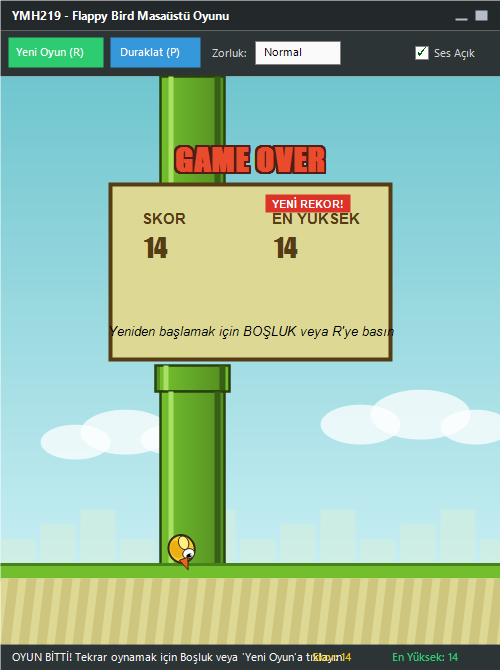
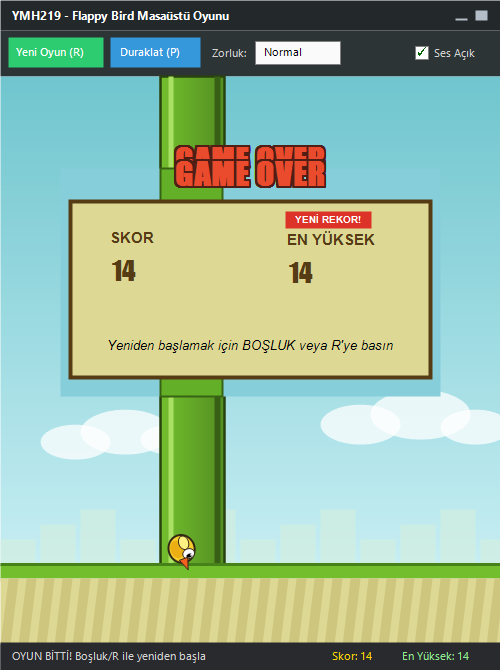
düzeltme: Game Over kartı genişliği, yazı hizalaması ve gameover ekran görüntüsü düzeltildi

Changed region(s): [[0.12, 0.2388, 0.9, 0.597], [0.0, 0.9552, 1.0, 1.0]]

diff --git a/src/FlappyBird/Engine/GameEngine.cs b/src/FlappyBird/Engine/GameEngine.cs
@@ -307,15 +307,16 @@ public class GameEngine : IDisposable
 
     private void DrawOverlayMessage(Graphics g, string title, string subtitle)
     {
-        using var boxBrush = new SolidBrush(Color.FromArgb(180, 0, 0, 0));
-        using var titleFont = new Font("Arial", 16, FontStyle.Bold);
-        using var subFont = new Font("Arial", 11, FontStyle.Regular);
+        using var boxBrush = new SolidBrush(Color.FromArgb(190, 0, 0, 0));
+        using var titleFont = new Font("Arial", 14, FontStyle.Bold);
+        using var subFont = new Font("Arial", 10.5f, FontStyle.Regular);
+        using var sf = new StringFormat { Alignment = StringAlignment.Center, LineAlignment = StringAlignment.Center };
 
         var titleSize = g.MeasureString(title, titleFont);
         var subSize = g.MeasureString(subtitle, subFont);
 
-        float boxW = Math.Max(titleSize.Width, subSize.Width) + 40f;
-        float boxH = titleSize.Height + subSize.Height + 35f;
+        float boxW = Math.Min(CanvasWidth - 36f, Math.Max(titleSize.Width, subSize.Width) + 44f);
+        float boxH = titleSize.Height + subSize.Height + 38f;
         float boxX = (CanvasWidth - boxW) / 2f;
         float boxY = (GroundY - boxH) / 2f;
 
@@ -323,16 +324,20 @@ public class GameEngine : IDisposable
         using var borderPen = new Pen(Color.FromArgb(245, 200, 50), 2f);
         g.DrawRectangle(borderPen, boxX, boxY, boxW, boxH);
 
-        g.DrawString(title, titleFont, Brushes.Gold, (CanvasWidth - titleSize.Width) / 2f, boxY + 12);
-        g.DrawString(subtitle, subFont, Brushes.White, (CanvasWidth - subSize.Width) / 2f, boxY + 18 + titleSize.Height);
+        g.DrawString(title, titleFont, Brushes.Gold, new RectangleF(boxX + 10, boxY + 10, boxW - 20, titleSize.Height + 6), sf);
+        g.DrawString(subtitle, subFont, Brushes.White, new RectangleF(boxX + 10, boxY + 20 + titleSize.Height, boxW - 20, subSize.Height + 6), sf);
     }
 
     private void DrawGameOverCard(Graphics g)
     {
-        float cardW = 280f;
-        float cardH = 175f;
+        using var hintFont = new Font("Arial", 9.5f, FontStyle.Italic);
+        string hint = "Yeniden başlamak için BOŞLUK veya R'ye basın";
+        var hintSize = g.MeasureString(hint, hintFont);
+
+        float cardW = Math.Min(CanvasWidth - 36f, Math.Max(340f, hintSize.Width + 40f));
+        float cardH = 180f;
         float cardX = (CanvasWidth - cardW) / 2f;
-        float cardY = (GroundY - cardH) / 2f - 10f;
+        float cardY = (GroundY - cardH) / 2f + 12f;
 
         // Kart Arka Planı (Panel)
         using (var cardBrush = new SolidBrush(Color.FromArgb(222, 216, 149)))
@@ -342,13 +347,13 @@ public class GameEngine : IDisposable
             g.DrawRectangle(borderPen, cardX, cardY, cardW, cardH);
         }
 
-        // GAME OVER Başlığı
+        // GAME OVER Başlığı (kutunun üst kenarının tam üstünde)
         using (var goFont = new Font("Impact", 24, FontStyle.Bold))
         {
             string goText = "GAME OVER";
             var goSize = g.MeasureString(goText, goFont);
             float goX = (CanvasWidth - goSize.Width) / 2f;
-            float goY = cardY - 45f;
+            float goY = cardY - goSize.Height - 6f;
 
             // Dış çizgi
             using var outBrush = new SolidBrush(Color.FromArgb(80, 30, 20));
@@ -359,35 +364,37 @@ public class GameEngine : IDisposable
                     g.DrawString(goText, goFont, outBrush, goX + dx, goY + dy);
                 }
             }
-            g.DrawString(goText, goFont, new SolidBrush(Color.FromArgb(235, 75, 45)), goX, goY);
+            using var goBrush = new SolidBrush(Color.FromArgb(235, 75, 45));
+            g.DrawString(goText, goFont, goBrush, goX, goY);
         }
 
         // Skor Tablosu
         using (var labelFont = new Font("Arial", 11, FontStyle.Bold))
-        using (var valFont = new Font("Impact", 18, FontStyle.Regular))
+        using (var valFont = new Font("Impact", 20, FontStyle.Regular))
         using (var textBrush = new SolidBrush(Color.FromArgb(85, 60, 20)))
+        using (var sf = new StringFormat { Alignment = StringAlignment.Center, LineAlignment = StringAlignment.Center })
         {
+            float leftColX = cardX + 36f;
+            float rightColX = cardX + cardW - 145f;
+
             // Skor
-            g.DrawString("SKOR", labelFont, textBrush, cardX + 30, cardY + 25);
-            g.DrawString(ScoreManager.CurrentScore.ToString(), valFont, textBrush, cardX + 30, cardY + 45);
+            g.DrawString("SKOR", labelFont, textBrush, leftColX, cardY + 26);
+            g.DrawString(ScoreManager.CurrentScore.ToString(), valFont, textBrush, leftColX, cardY + 50);
 
             // En Yüksek Skor
-            g.DrawString("EN YÜKSEK", labelFont, textBrush, cardX + 160, cardY + 25);
-            g.DrawString(ScoreManager.HighScore.ToString(), valFont, textBrush, cardX + 160, cardY + 45);
+            g.DrawString("EN YÜKSEK", labelFont, textBrush, rightColX, cardY + 26);
+            g.DrawString(ScoreManager.HighScore.ToString(), valFont, textBrush, rightColX, cardY + 50);
 
             if (ScoreManager.IsNewHighScore)
             {
                 using var badgeBrush = new SolidBrush(Color.FromArgb(220, 50, 40));
-                g.FillRectangle(badgeBrush, cardX + 155, cardY + 10, 80, 18);
-                using var badgeFont = new Font("Arial", 8, FontStyle.Bold);
-                g.DrawString("YENİ REKOR!", badgeFont, Brushes.White, cardX + 160, cardY + 12);
+                g.FillRectangle(badgeBrush, rightColX, cardY + 8, 86, 17);
+                using var badgeFont = new Font("Arial", 7.5f, FontStyle.Bold);
+                g.DrawString("YENİ REKOR!", badgeFont, Brushes.White, new RectangleF(rightColX, cardY + 8, 86, 17), sf);
             }
 
-            // Yeniden Başlat Yönergesi
-            using var hintFont = new Font("Arial", 10, FontStyle.Italic);
-            string hint = "Yeniden başlamak için BOŞLUK veya R'ye basın";
-            var hintSize = g.MeasureString(hint, hintFont);
-            g.DrawString(hint, hintFont, Brushes.Black, (CanvasWidth - hintSize.Width) / 2f, cardY + 135);
+            // Yeniden Başlat Yönergesi (kutu içine tam sığar ve ortalanır)
+            g.DrawString(hint, hintFont, Brushes.Black, new RectangleF(cardX + 12f, cardY + 125f, cardW - 24f, 40f), sf);
         }
     }
 
